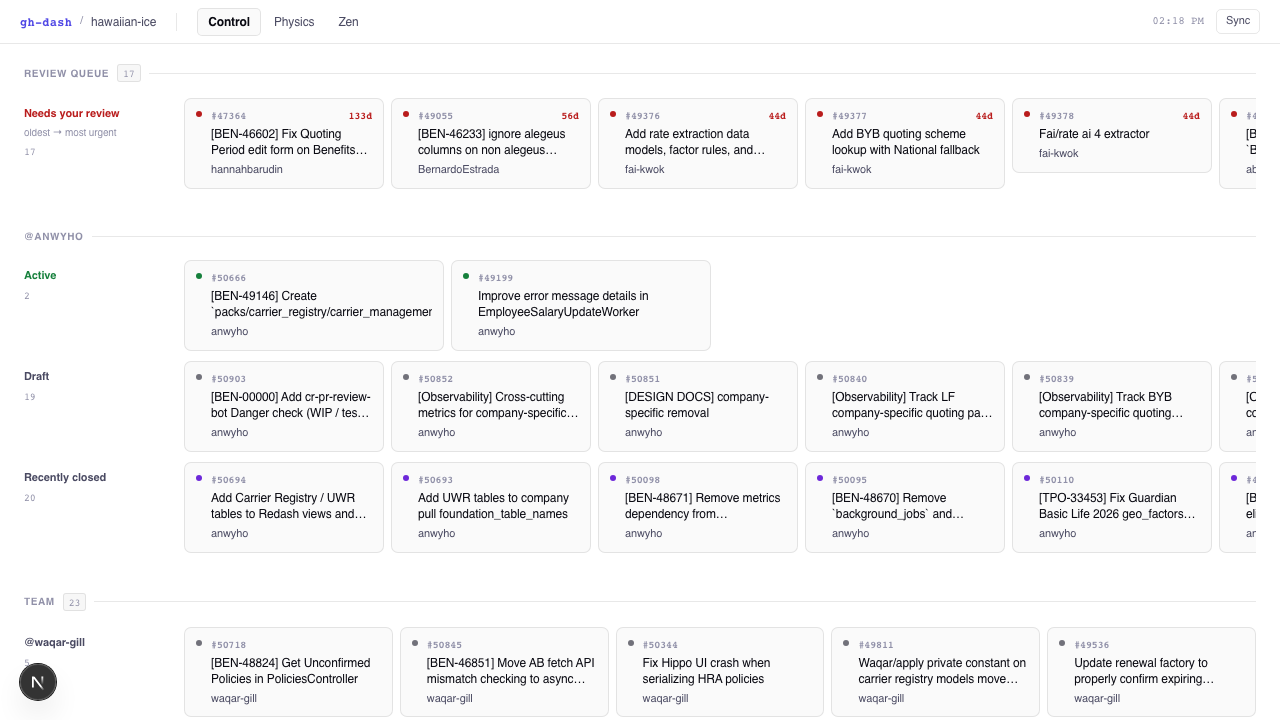
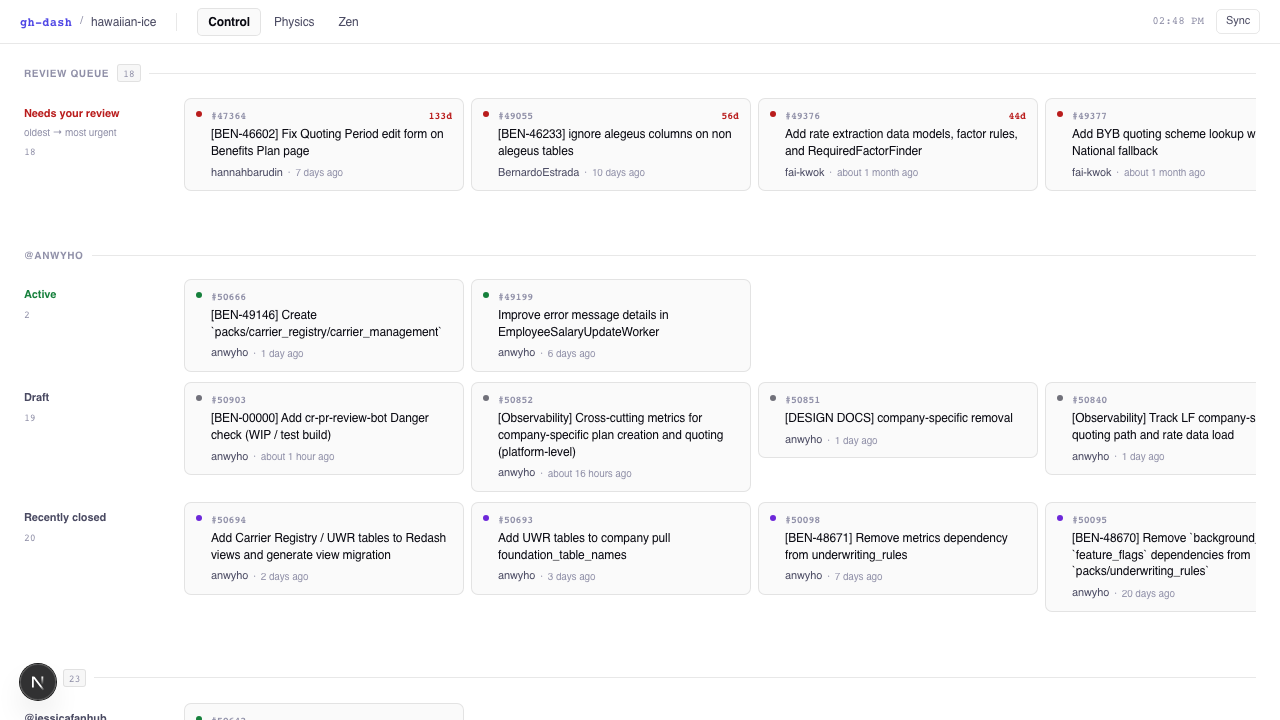
feat: full PR titles + description on hover
- types/pr.ts: add body: string | null to PrDetails
- pr-details-batch: extract body from already-fetched PR object (free,
  no extra API call)
- ControlPanel: remove -webkit-line-clamp, full title now wraps
  naturally. Description shown on :hover below a divider line (CSS-only,
  no JS state). HTML comments stripped from body before display.
  Chip width fixed at 280px. Relative time added to meta row.
- PhysicsView + ZenView hover cards: show body (up to 400 chars,
  comments stripped) in the detail panel

diff --git a/components/views/ControlPanel.tsx b/components/views/ControlPanel.tsx
@@ -66,6 +66,11 @@ function PrChip({ pr, showUrgency, details }: PrChipProps) {
     ? `, review ${details.reviewState.replace("_", " ")}, CI ${details.ciState}`
     : "";
 
+  // Trim body to ~280 chars for tooltip
+  const bodyPreview = details?.body
+    ? details.body.replace(/<!--[\s\S]*?-->/g, "").trim().slice(0, 280) + (details.body.length > 280 ? "…" : "")
+    : null;
+
   return (
     <a
       href={pr.htmlUrl}
@@ -83,6 +88,8 @@ function PrChip({ pr, showUrgency, details }: PrChipProps) {
         <span className="pr-chip-title">{pr.title}</span>
         <div className="pr-chip-meta">
           <span className="pr-chip-author">{pr.author.login}</span>
+          <span aria-hidden="true" className="pr-chip-sep">·</span>
+          <span className="pr-chip-reltime">{rel}</span>
           {details && (
             <>
               <span aria-hidden="true" className="pr-chip-sep">·</span>
@@ -96,6 +103,9 @@ function PrChip({ pr, showUrgency, details }: PrChipProps) {
             </>
           )}
         </div>
+        {bodyPreview && (
+          <p className="pr-chip-desc">{bodyPreview}</p>
+        )}
       </div>
     </a>
   );
@@ -237,18 +247,21 @@ export default function ControlPanel({ refreshIntervalMs, myLogin, repo }: Props
 
         .chip-skeleton { min-width:200px; height:68px; border-radius:7px; background:var(--bg-card); border:1px solid var(--border); flex-shrink:0; animation:pulse 1.5s ease infinite; }
 
-        .pr-chip { display:flex; gap:9px; padding:9px 11px; background:var(--bg-card); border:1px solid var(--border); border-radius:7px; min-width:200px; max-width:260px; flex-shrink:0; text-decoration:none; cursor:pointer; transition:background .1s,border-color .1s; }
+        .pr-chip { display:flex; gap:9px; padding:9px 11px; background:var(--bg-card); border:1px solid var(--border); border-radius:7px; width:280px; flex-shrink:0; text-decoration:none; cursor:pointer; transition:background .1s,border-color .1s; }
         .pr-chip:hover { background:var(--bg-card-hover); border-color:var(--border-strong); }
         .pr-chip-dot { width:6px; height:6px; border-radius:50%; flex-shrink:0; margin-top:3px; }
         .pr-chip-body { flex:1; min-width:0; display:flex; flex-direction:column; gap:3px; }
         .pr-chip-header { display:flex; align-items:baseline; justify-content:space-between; gap:6px; }
         .pr-chip-number { font-family:'JetBrains Mono',monospace; font-size:10px; font-weight:600; color:var(--text-muted); }
         .pr-chip-age { font-family:'JetBrains Mono',monospace; font-size:10px; font-weight:600; flex-shrink:0; }
-        .pr-chip-title { font-size:12px; font-weight:500; color:var(--text-primary); line-height:1.35; overflow:hidden; display:-webkit-box; -webkit-line-clamp:2; -webkit-box-orient:vertical; }
-        .pr-chip-meta { display:flex; align-items:center; gap:7px; margin-top:1px; }
+        .pr-chip-title { font-size:12px; font-weight:500; color:var(--text-primary); line-height:1.4; word-break:break-word; }
+        .pr-chip-meta { display:flex; align-items:center; flex-wrap:wrap; gap:5px; margin-top:2px; }
         .pr-chip-author { font-size:11px; color:var(--text-secondary); }
+        .pr-chip-reltime { font-size:10px; color:var(--text-muted); }
         .pr-chip-sep { font-size:10px; color:var(--text-muted); }
         .pr-chip-status { font-size:10px; font-weight:600; letter-spacing:.02em; }
+        .pr-chip-desc { font-size:11px; color:var(--text-secondary); line-height:1.5; margin-top:6px; padding-top:6px; border-top:1px solid var(--border); white-space:pre-wrap; word-break:break-word; display:none; }
+        .pr-chip:hover .pr-chip-desc { display:block; }
       `}</style>
     </div>
   );

diff --git a/components/views/ZenView.tsx b/components/views/ZenView.tsx
@@ -2,7 +2,7 @@
 
 import { useState, useMemo } from "react";
 import { formatDistanceToNow } from "date-fns";
-import type { PrCardData } from "@/types/pr";
+import type { PrCardData, PrDetails } from "@/types/pr";
 import NavBar from "@/components/NavBar";
 import { useDashboardData } from "@/lib/hooks/useDashboardData";
 
@@ -53,7 +53,7 @@ interface Props { refreshIntervalMs: number; myLogin: string; repo: string; }
 export default function ZenView({ refreshIntervalMs, myLogin, repo }: Props) {
   const [hoveredPr, setHoveredPr] = useState<PrCardData | null>(null);
   const [paused, setPaused] = useState(false);
-  const { myPrs, tmPrs, rvPrs, isLoading, refresh } = useDashboardData(refreshIntervalMs);
+  const { myPrs, tmPrs, rvPrs, detailsMap, isLoading, refresh } = useDashboardData(refreshIntervalMs);
 
   const review = rvPrs?.reviewRequests ?? [];
   const myActive = myPrs?.active ?? [];
@@ -243,6 +243,15 @@ export default function ZenView({ refreshIntervalMs, myLogin, repo }: Props) {
                 ))}
               </div>
             )}
+            {(() => {
+              const d: PrDetails | undefined = detailsMap?.[hoveredPr.number];
+              const body = d?.body?.replace(/<!--[\s\S]*?-->/g, "").trim();
+              return body ? (
+                <p style={{ fontSize: 11, color: "var(--text-secondary)", lineHeight: 1.5, marginTop: 10, paddingTop: 8, borderTop: "1px solid var(--border)", whiteSpace: "pre-wrap", wordBreak: "break-word" }}>
+                  {body.slice(0, 400)}{body.length > 400 ? "…" : ""}
+                </p>
+              ) : null;
+            })()}
             <p style={{ fontSize: 10, color: "var(--accent)", marginTop: 10 }}>Click dot to open PR →</p>
           </div>
         )}

diff --git a/app/api/pr-details-batch/route.ts b/app/api/pr-details-batch/route.ts
@@ -17,16 +17,17 @@ async function fetchOnePr(repo: string, prNumber: number): Promise<PrDetails> {
       ghFetch(`repos/${repo}/pulls/${prNumber}/reviews`),
     ]);
 
-    const sha = (prData as { head: { sha: string } }).head.sha;
-    if (!/^[0-9a-f]{40}$/i.test(sha)) throw new Error("Invalid SHA");
+    const pr = prData as { head: { sha: string }; body: string | null };
+    if (!/^[0-9a-f]{40}$/i.test(pr.head.sha)) throw new Error("Invalid SHA");
 
     const checkRunsData = await ghFetch(
-      `repos/${repo}/commits/${sha}/check-runs?per_page=50`
+      `repos/${repo}/commits/${pr.head.sha}/check-runs?per_page=50`
     );
 
     return {
       reviewState: computeReviewState(reviewsData as Parameters<typeof computeReviewState>[0]),
       ciState: computeCiState(checkRunsData as Parameters<typeof computeCiState>[0]),
+      body: pr.body ?? null,
     };
   });
 }

diff --git a/components/views/PhysicsView.tsx b/components/views/PhysicsView.tsx
@@ -344,6 +344,11 @@ export default function PhysicsView({ refreshIntervalMs, repo }: Props) {
                   {hovered.pr.labels.map(l => <span key={l.id} style={{ background: `#${l.color}`, borderRadius: 3, padding: "1px 5px", fontSize: 10, fontWeight: 600, color: "#000" }}>{l.name}</span>)}
                 </div>
               )}
+              {d?.body && (
+                <p style={{ fontSize: 11, color: "var(--text-secondary)", lineHeight: 1.5, marginTop: 10, paddingTop: 8, borderTop: "1px solid var(--border)", whiteSpace: "pre-wrap", wordBreak: "break-word" }}>
+                  {d.body.replace(/<!--[\s\S]*?-->/g, "").trim().slice(0, 400)}{d.body.length > 400 ? "…" : ""}
+                </p>
+              )}
               <p style={{ fontSize: 10, color: "var(--accent)", marginTop: 8 }}>Click to open →</p>
             </div>
           );

diff --git a/types/pr.ts b/types/pr.ts
@@ -32,6 +32,7 @@ export interface ReviewRequestsResponse {
 export interface PrDetails {
   reviewState: ReviewState;
   ciState: CiState;
+  body: string | null;
 }
 
 export interface MyPrsResponse {
